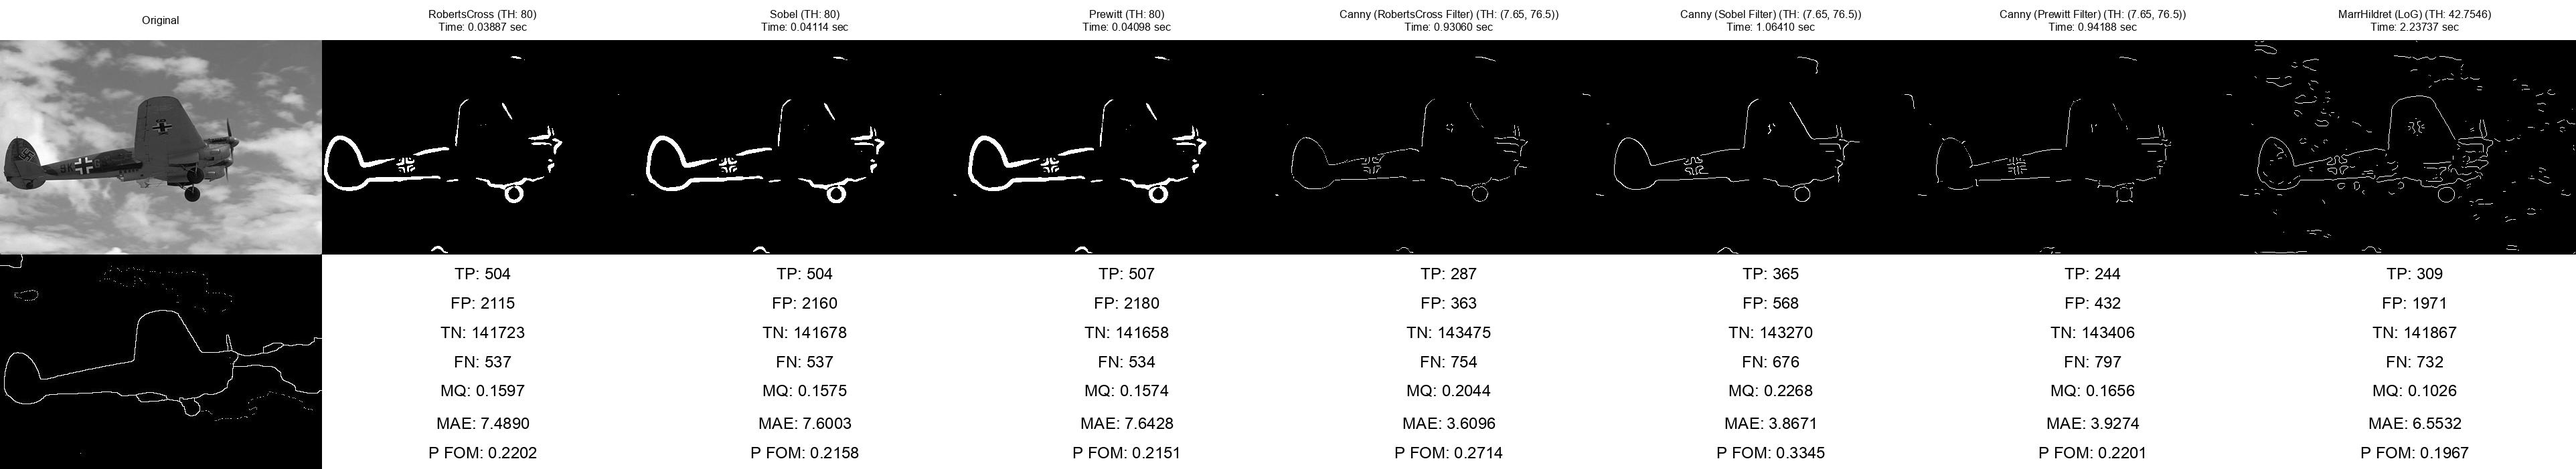
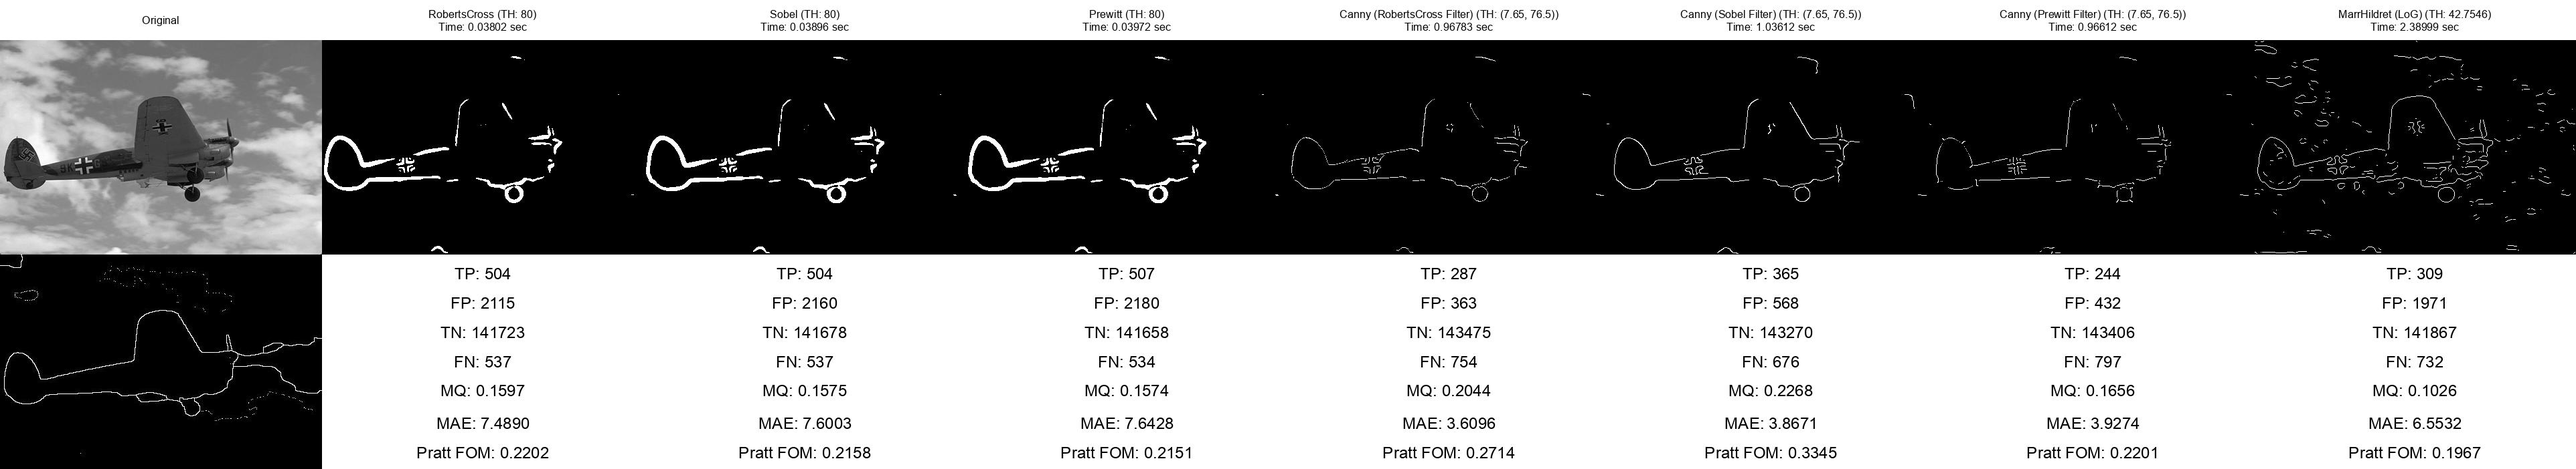
Added configurable part

diff --git a/src/Benchmark.py b/src/Benchmark.py
@@ -6,19 +6,28 @@ from ImageUtil import ImageUtil
 import numpy as np
 from PIL import Image
 
-FilterSIGMA = 2.3
-FilterDIM = 3*FilterSIGMA
-directory = 'Benchmark_Images/'
-result_dir = 'Benchmark_Result/'
-groundtruth_dir = directory+'GroundTruth/'
-SINGLE_FASE = ["RobertsCross", "Sobel", "Prewitt"]
-MULTI_FASE = { "Canny": ["RobertsCross", "Sobel", "Prewitt"] }
-ZERO_CROSS = ["MarrHildret"]
+############################## CONFIGURE ME #############################
+#########################################################################
+FilterSIGMA = 2.3                                                       #
+FilterDIM = 3*FilterSIGMA                                               #
+                                                                        #
+directory = 'Steps_Images/'                                             #
+result_dir = 'Steps_Result/'                                            #
+SINGLE_FASE = ["RobertsCross", "Sobel", "Prewitt"]                      #
+MULTI_FASE = { "Canny": ["RobertsCross", "Sobel", "Prewitt"] }          #
+ZERO_CROSS = ["MarrHildret"]                                            #
+                                                                        #
+single_threshold = 80                                                  #    
+doubleThreshold = [0.1, 0.30]                                          #
+zeroCrossing_threshold = 0.98                                           #
+#########################################################################
 
-single_threshold = 80
-double_threshold = [0.1, 0.30]
-zeroCrossing_threshold = 0.98
 
+
+
+
+
+############## DO NOT EDIT FROM THIS POINT ##############
 def loadImage(filename):
     image = ImageUtil.loadImage( directory+filename )
     filename, extension = os.path.splitext(filename)
@@ -36,12 +45,12 @@ def main():
     
     edgeDetectors = []
     for detector in SINGLE_FASE:
-        edgeDetectors.append(edgeDetectorFactorySingle.get_detector(detector, threshold = single_threshold))
+        edgeDetectors.append(edgeDetectorFactorySingle.getDetector(detector, threshold = single_threshold))
     for detector in MULTI_FASE.keys():
         for mask in MULTI_FASE[detector]:
-            edgeDetectors.append(edgeDetectorFactoryMulti.get_detector(mask = [detector, mask], threshold = double_threshold))
+            edgeDetectors.append(edgeDetectorFactoryMulti.getDetector(mask = [detector, mask], threshold = double_threshold))
     for detector in ZERO_CROSS:
-        edgeDetectors.append(edgeDetectorFactoryZero.get_detector(mask = [detector, ImageUtil.get_laplacianOfGaussian(FilterDIM, FilterSIGMA)], threshold = zeroCrossing_threshold))
+        edgeDetectors.append(edgeDetectorFactoryZero.getDetector(mask = [detector, ImageUtil.getLaplacianOfGaussian(FilterDIM, FilterSIGMA)], threshold = zeroCrossing_threshold))
 
     for filename in os.listdir(directory):
         if os.path.isdir(directory+filename): 
@@ -66,7 +75,7 @@ def main():
             mae = MetricsFunction.meanAbsoluteError(groundTruth, edges)
             images.append(ImageUtil.writeInfo(edges, detector.getName()+" (TH: {})".format(detector.getThreshold()), blurring_time + t))
             
-            results.append(ImageUtil.WriteResult(groundTruth.size, tp, fp, tn, fn, mq, mae, pfom))
+            results.append(ImageUtil.writeResult(groundTruth.size, tp, fp, tn, fn, mq, mae, pfom))
             
         #write output image with all information
         ImageUtil.saveBenchmark(original, images, groundTruth, results, result_dir+filename+extension)   

diff --git a/src/Steps.py b/src/Steps.py
@@ -5,17 +5,28 @@ from ImageUtil import ImageUtil
 import numpy as np
 from PIL import Image
 
-FilterSIGMA = 1.6
-FilterDIM = 3*FilterSIGMA
-directory = 'Steps_Images/'
-result_dir = 'Steps_Result/'
-SINGLE_FASE = ["RobertsCross", "Sobel", "Prewitt"]
-MULTI_FASE = { "Canny": ["RobertsCross", "Sobel", "Prewitt"] }
-ZERO_CROSS = ["MarrHildret"]
+############################## CONFIGURE ME #############################
+#########################################################################
+FilterSIGMA = 1.6                                                       #
+FilterDIM = 3*FilterSIGMA                                               #
+                                                                        #
+directory = 'Steps_Images/'                                             #
+result_dir = 'Steps_Result/'                                            #
+SINGLE_FASE = ["RobertsCross", "Sobel", "Prewitt"]                      #
+MULTI_FASE = { "Canny": ["RobertsCross", "Sobel", "Prewitt"] }          #
+ZERO_CROSS = ["MarrHildret"]                                            #
+                                                                        #
+single_threshold = 100                                                  #    
+doubleThreshold = [0.05, 0.25]                                          #
+zeroCrossing_threshold = 0.98                                           #
+#########################################################################
 
-single_threshold = 100
-doubleThreshold = [0.05, 0.25]
 
+
+
+
+
+############## DO NOT EDIT FROM THIS POINT ##############
 def load(filename):
     image = ImageUtil.loadImage( directory+filename)
     filename, extension = os.path.splitext(filename)
@@ -38,7 +49,7 @@ def main():
     
     edgeDetectorsZero = []
     for detector in ZERO_CROSS:
-        edgeDetectorsZero.append(edgeDetectorFactoryZero.getDetector(mask = [detector, ImageUtil.getLaplacianOfGaussian(FilterDIM, FilterSIGMA)], threshold =2))
+        edgeDetectorsZero.append(edgeDetectorFactoryZero.getDetector(mask = [detector, ImageUtil.getLaplacianOfGaussian(FilterDIM, FilterSIGMA)], threshold = zeroCrossing_threshold))
     
     for filename in os.listdir(directory):
         if os.path.isdir(directory+filename): 

diff --git a/src/MultiFaseEdgeDetector.py b/src/MultiFaseEdgeDetector.py
@@ -93,8 +93,8 @@ class MultiFaseEdgeDetector(EdgeDetector, ABC):
         return float('%.4f'%self.lowThreshold), float('%.4f'%self.highThreshold)
     
     def getEdges(self, image):
-        gradient, theta = self.get_gradient(image)
+        gradient, theta = self.getGradient(image)
         nms = self.nonMaxSuppression(gradient, theta)
-        threshold = self.double_threshold(nms)
+        threshold = self.doubleThreshold(nms)
         hysteresis = self.hysteresis(threshold)
         return hysteresis

diff --git a/src/SingleFaseEdgeDetector.py b/src/SingleFaseEdgeDetector.py
@@ -29,6 +29,6 @@ class SingleFaseEdgeDetector(ABC):
         return self.threshold
     
     def getEdges(self, image):
-        gradient = self.get_gradient(image)
-        threshold = self.apply_threshold(gradient)
+        gradient = self.getGradient(image)
+        threshold = self.applyThreshold(gradient)
         return threshold
